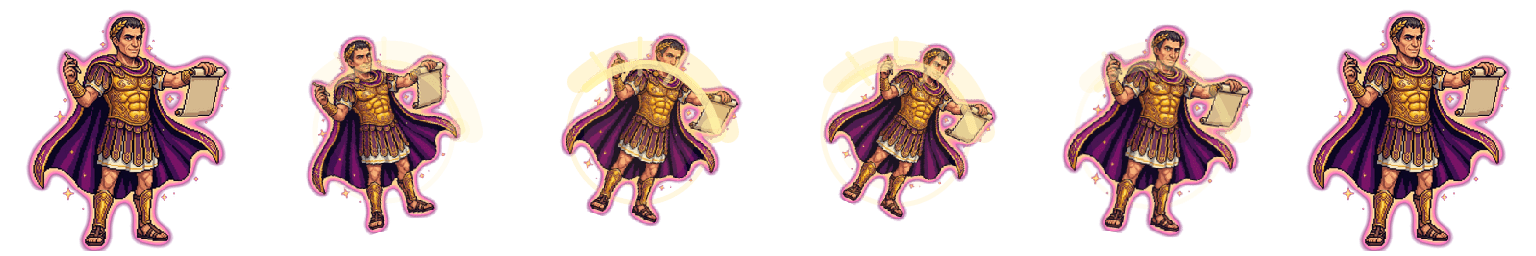
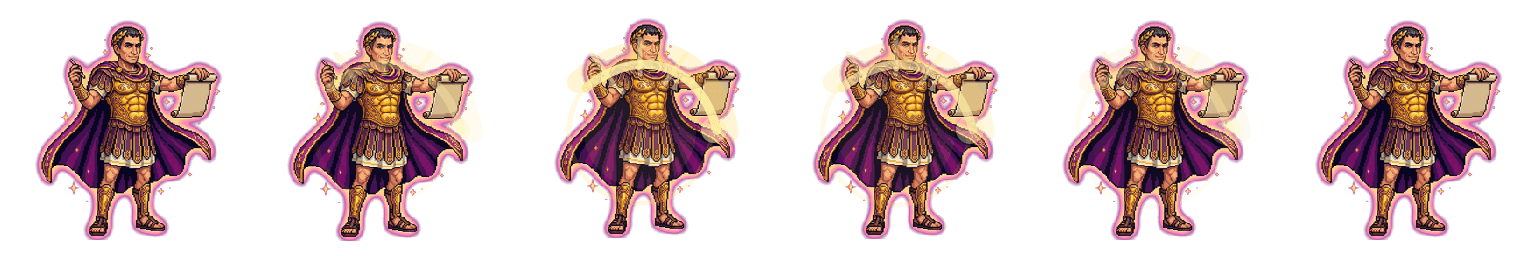
QC hero attack sprite sheets

diff --git a/src/render/RenderEngine.ts b/src/render/RenderEngine.ts
@@ -3446,14 +3446,14 @@ export class RenderEngine {
       // the target's position.)
       // Attack flash + recoil: stronger brightening, scale jump, kickback offset
       // along the firing direction for satisfying combat feel.
-      const flashWindow = tw.isHero ? 0.32 : 0.18;
+      const flashWindow = tw.isHero ? 0.42 : 0.18;
       const flashT = tw.attackFlash > 0 ? Math.min(1, tw.attackFlash / flashWindow) : 0;
       const heroIdentity = heroIdForTowerType(String(tw.type));
       let usingHeroAttackSheet = false;
       if (tw.isHero && heroIdentity && flashT > 0) {
         const sheetKey = HERO_ATTACK_SHEET_FOR[heroIdentity];
         const frameAge = Math.max(0, Math.min(0.999, 1 - flashT));
-        const frameIndex = Math.min(HERO_ATTACK_FRAME_COUNT - 1, Math.floor(frameAge * HERO_ATTACK_FRAME_COUNT));
+        const frameIndex = Math.min(HERO_ATTACK_FRAME_COUNT - 1, 1 + Math.floor(frameAge * (HERO_ATTACK_FRAME_COUNT - 1)));
         const attackTex = sheetKey
           ? texFrame(sheetKey, frameIndex, HERO_ATTACK_FRAME_SIZE, HERO_ATTACK_FRAME_SIZE)
           : null;
@@ -3501,7 +3501,7 @@ export class RenderEngine {
           const age = 1 - flashT;
           const side = (tw.id.charCodeAt(tw.id.length - 1) % 2 === 0) ? 1 : -1;
           if (usingHeroAttackSheet) {
-            heroAttackRotation = meleeHero ? Math.sin(age * Math.PI) * 0.05 * side : Math.sin(age * Math.PI) * -0.04 * side;
+            heroAttackRotation = meleeHero ? Math.sin(age * Math.PI) * 0.12 * side : Math.sin(age * Math.PI) * -0.07 * side;
             heroAttackSkewX = 0;
           } else if (meleeHero) {
             const windupToRelease = age < 0.46

diff --git a/src/types.ts b/src/types.ts
@@ -438,7 +438,7 @@ export interface Tower {
   duplicateBumped?: number;       // tier bump from duplicate-card upgrade
   isAerarium: boolean;      // shortcut
   pending: boolean;         // Gem TD: just-placed, awaiting KEEP-or-convert decision
-  attackFlash: number;      // 0..0.18s normally; heroes use a longer visible attack window
+  attackFlash: number;      // 0..0.18s normally; heroes use a longer readable attack window
   // Gold actually paid to create this tower (place cost, OR combo cost when applicable).
   // Sell refund = floor(costPaid / 2). Defaults to TIER_PLACE_COST[tier] if unknown.
   costPaid?: number;

diff --git a/src/systems/CombatResolver.ts b/src/systems/CombatResolver.ts
@@ -1378,7 +1378,7 @@ export function tickCombat(state: GameStateShape, dt: number, hooks: CombatHooks
         damage = 0;
         (target as any).__weatherMissTick = state.tick;
       }
-      t.attackFlash = t.isHero ? 0.32 : 0.18;     // game-feel flash on every attack; heroes get readable attack VFX
+      t.attackFlash = t.isHero ? 0.42 : 0.18;     // game-feel flash on every attack; heroes get readable attack VFX
       // Compute "in melee/range" enemies once for cleave + multi-shot lookups.
       const tcx = tilePxX(t);
       const tcy = tilePxY(t);
